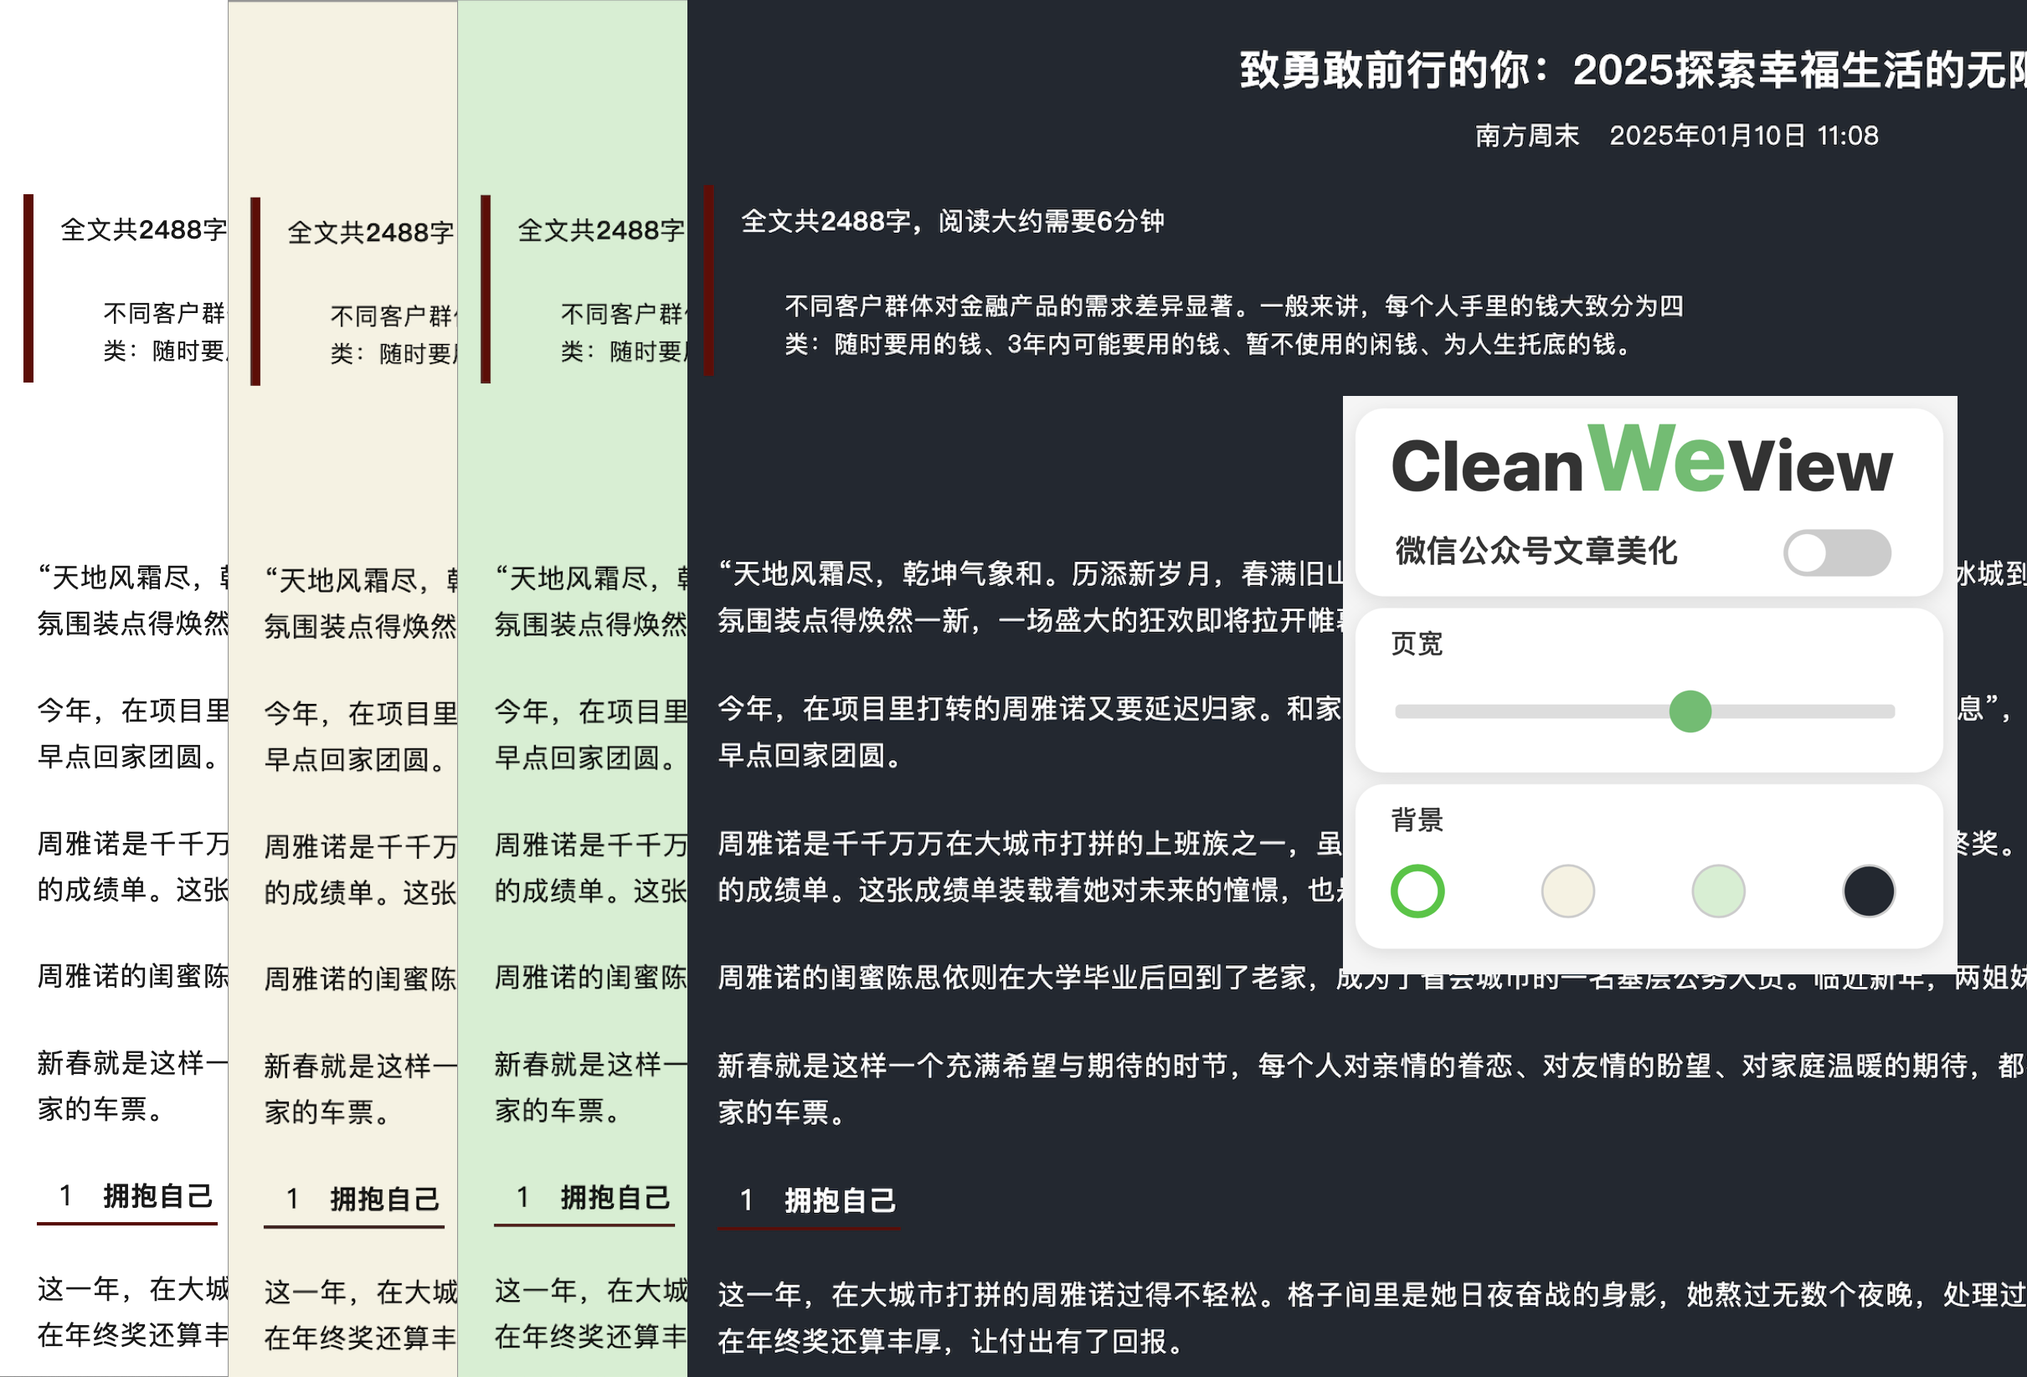
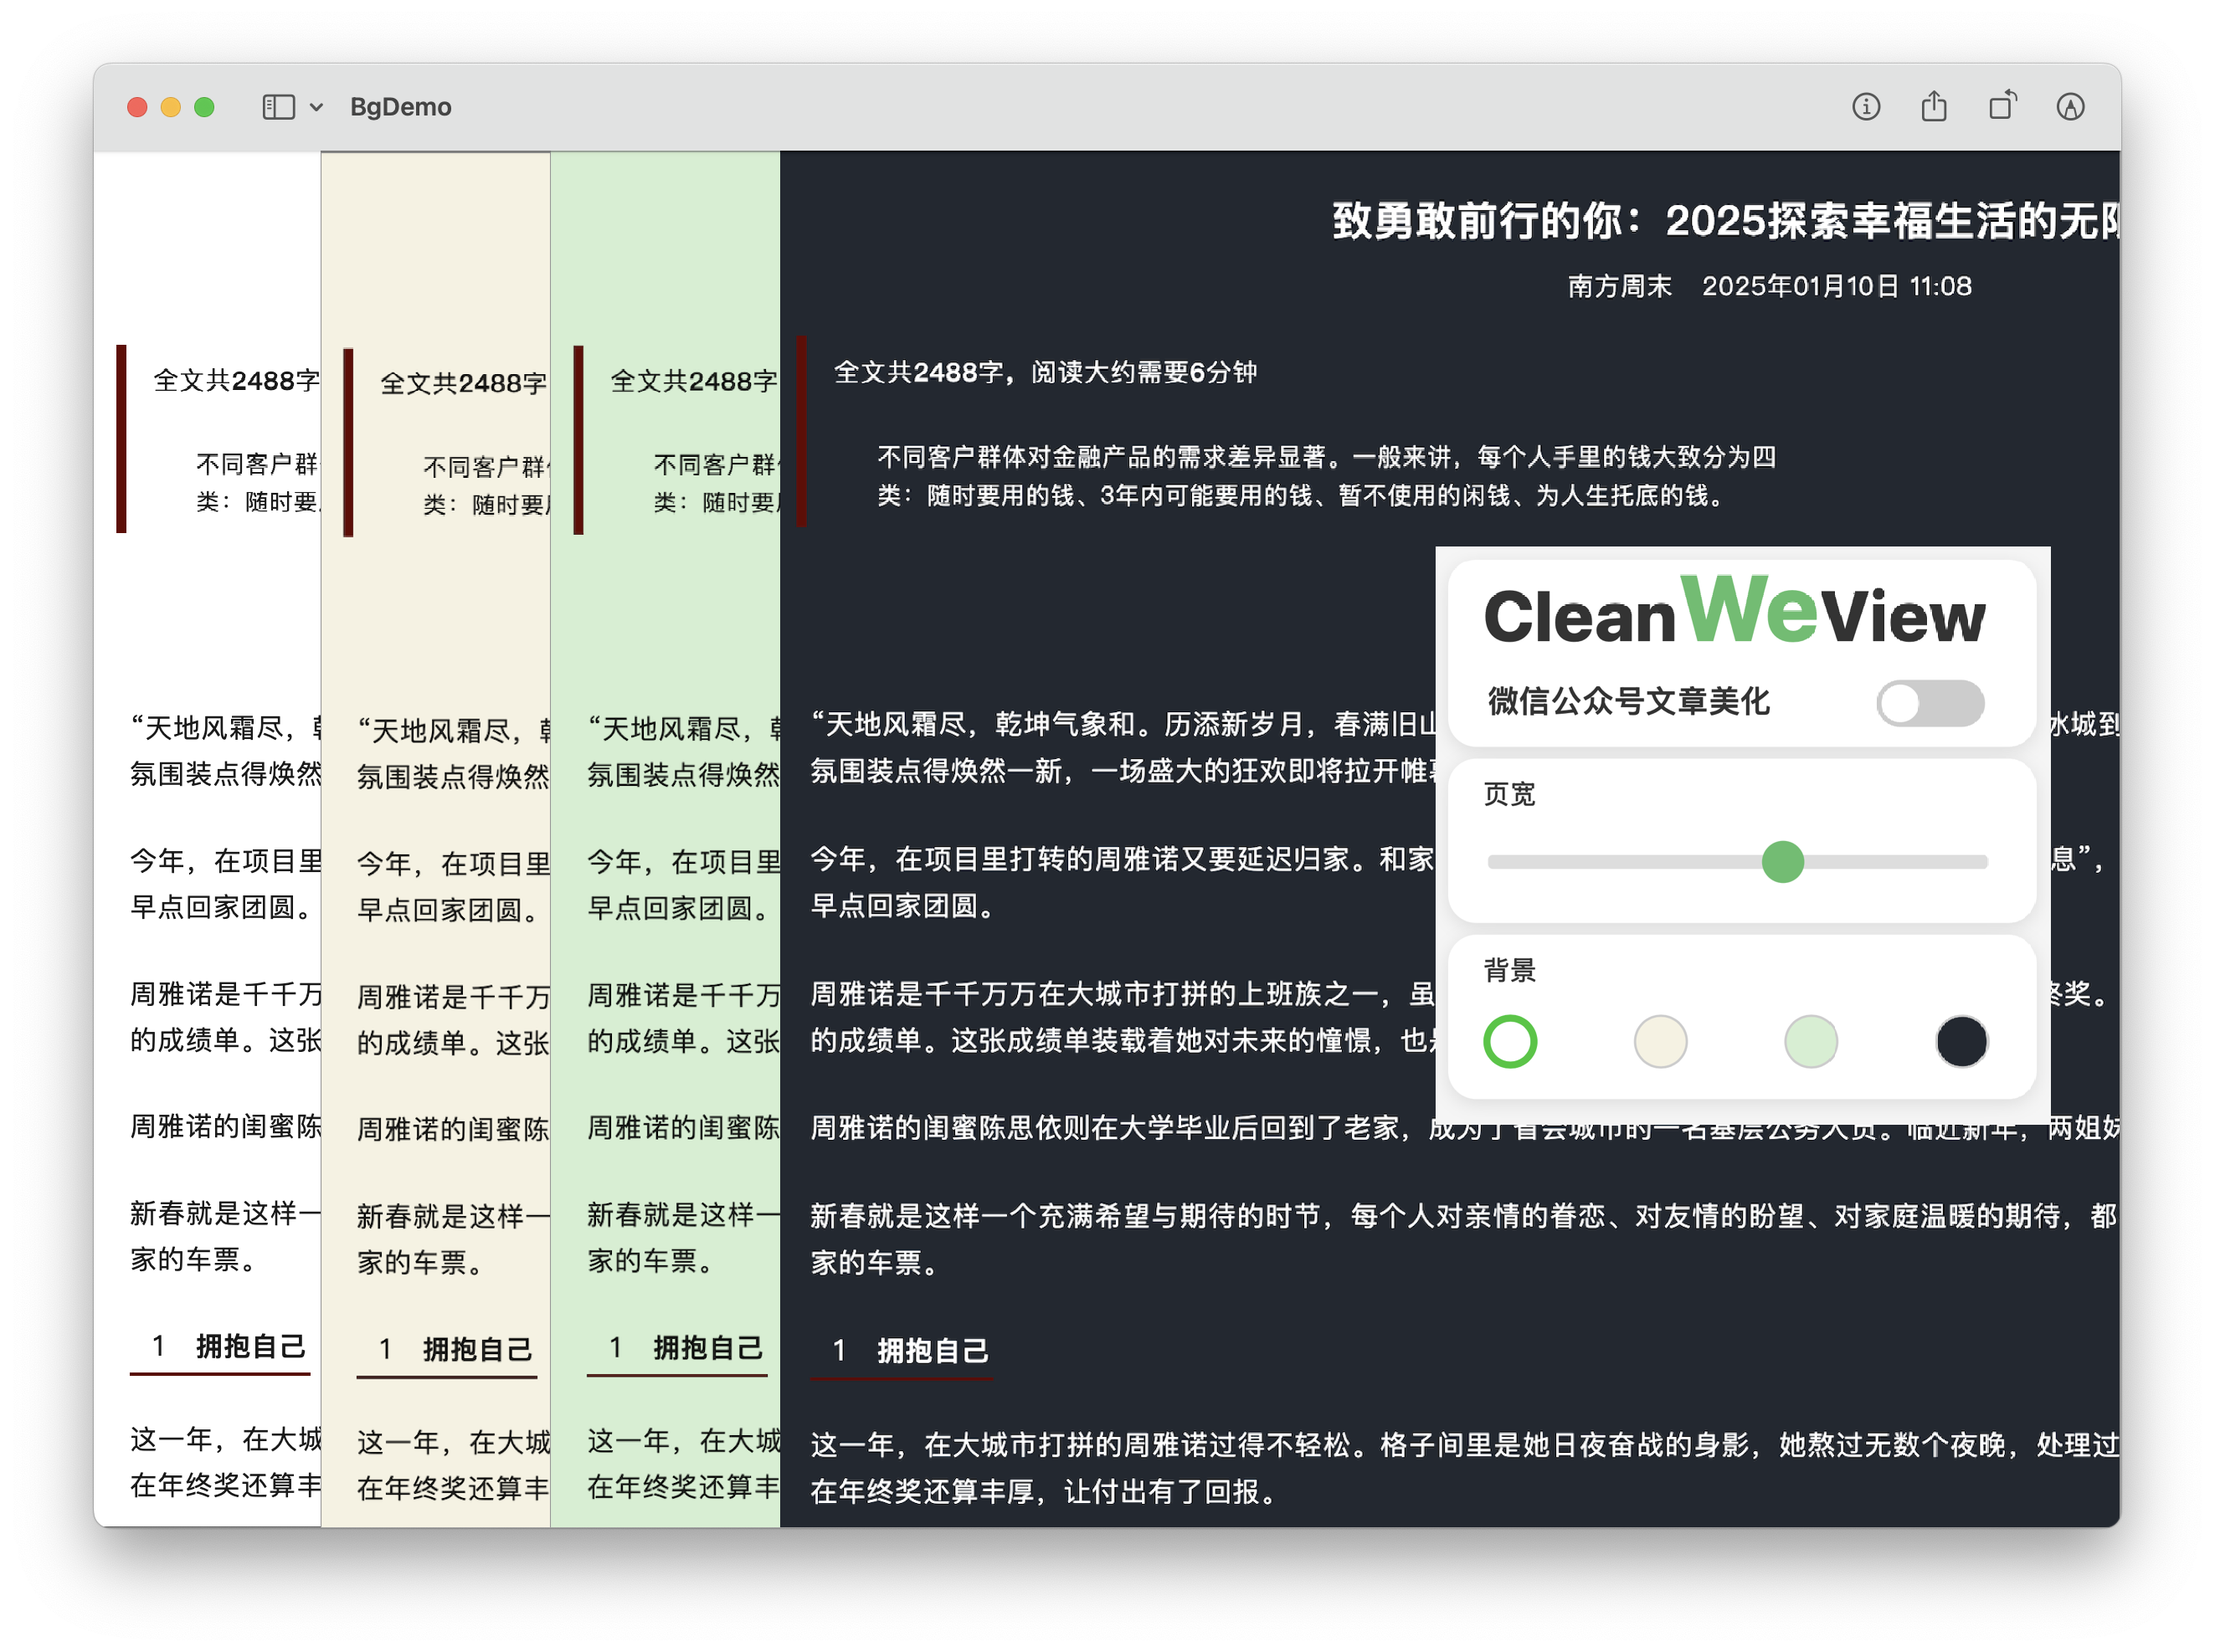
update demo in README

diff --git a/readme.md b/readme.md
@@ -36,7 +36,7 @@ v1.0：
 
 <img src=".\promo\after.png" style="zoom:80%;" />
 
-<img src=".\promo\BgDemo.png" style="zoom:75%;" />
+<img src=".\promo\BgDemo.png" style="zoom:80%;" />
 
 ## 使用方法
 
